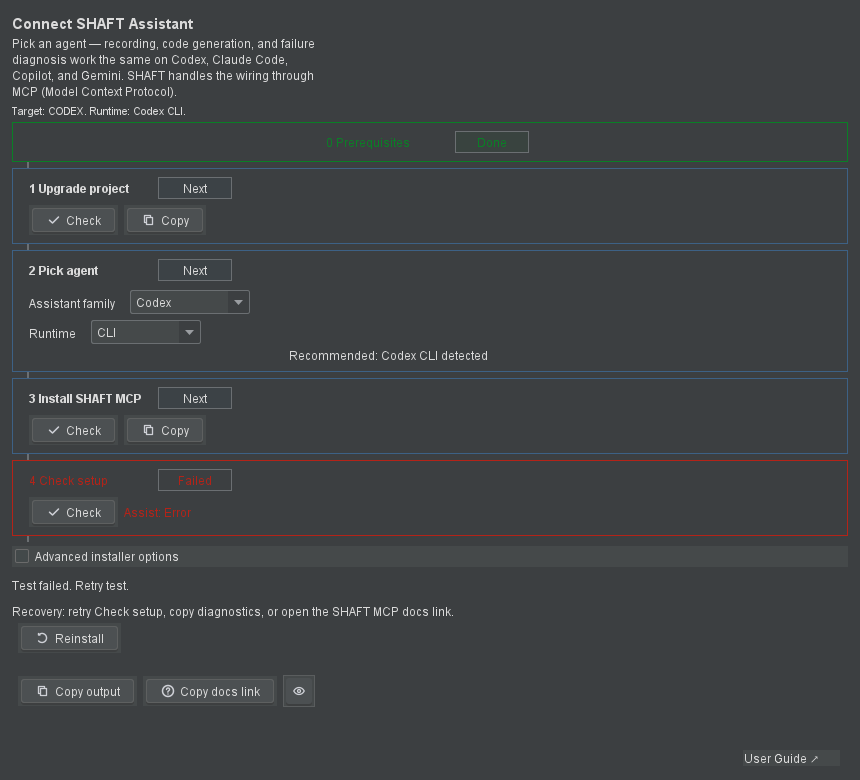
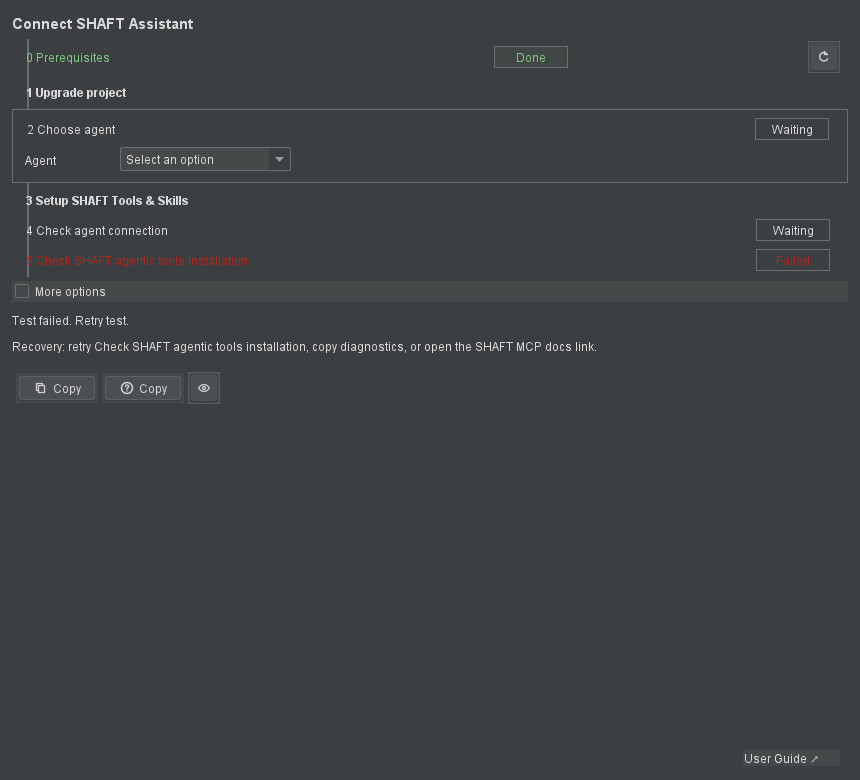
docs(intellij): refresh setup screenshots and pin FR-001 titles (#5151)

diff --git a/shaft-intellij/src/test/java/com/shaft/intellij/ui/ShaftPluginScreenshotRendererTest.java b/shaft-intellij/src/test/java/com/shaft/intellij/ui/ShaftPluginScreenshotRendererTest.java
@@ -1978,12 +1978,25 @@ class ShaftPluginScreenshotRendererTest {
         // "ready" chat row before setup completes) are intentionally zero-sized and
         // must not be treated as cropping regressions.
         final List<JLabel> labels = new ArrayList<>();
+        final List<String> allLabelTexts = new ArrayList<>();
         walkComponentsForVerification(setupPanel, comp -> {
-            if (comp instanceof JLabel lbl && lbl.getText() != null && !lbl.getText().isEmpty()
-                    && isEffectivelyVisible(lbl)) {
-                labels.add(lbl);
+            if (comp instanceof JLabel lbl && lbl.getText() != null && !lbl.getText().isEmpty()) {
+                allLabelTexts.add(lbl.getText());
+                if (isEffectivelyVisible(lbl)) {
+                    labels.add(lbl);
+                }
             }
         });
+        assertTrue(containsLabelText(allLabelTexts, "3 Setup SHAFT Tools & Skills"),
+                "Screenshot setup must paint FR-001 title 3 Setup SHAFT Tools & Skills. Labels: "
+                        + allLabelTexts);
+        assertTrue(containsLabelText(allLabelTexts, "5 Check SHAFT agentic tools installation"),
+                "Screenshot setup must paint FR-001 title 5 Check SHAFT agentic tools installation. Labels: "
+                        + allLabelTexts);
+        assertFalse(containsLabelText(allLabelTexts, "3 Copy setup command"),
+                "Screenshot setup must not paint the retired Copy setup command title");
+        assertFalse(containsLabelText(allLabelTexts, "4 Check setup"),
+                "Screenshot setup must not paint the retired Check setup title");
 
         // Check that labels render at their preferred size (no cropping)
         for (JLabel label : labels) {
@@ -2072,6 +2085,22 @@ class ShaftPluginScreenshotRendererTest {
             }
         }
         return true;
+    }
+
+    private static boolean containsLabelText(List<String> labelTexts, String expected) {
+        for (String text : labelTexts) {
+            if (visibleLabelText(text).contains(expected)) {
+                return true;
+            }
+        }
+        return false;
+    }
+
+    private static String visibleLabelText(String text) {
+        return text.replace("&amp;", "&")
+                .replaceAll("(?i)<[^>]+>", " ")
+                .replaceAll("\\s+", " ")
+                .trim();
     }
 
     /** Recursively collects the top-level wizard-step row panels (as produced by
